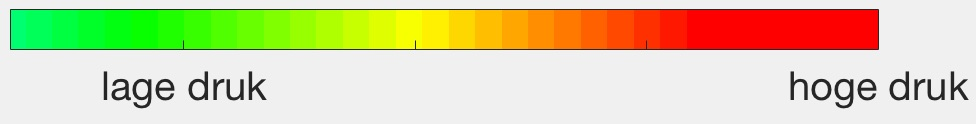
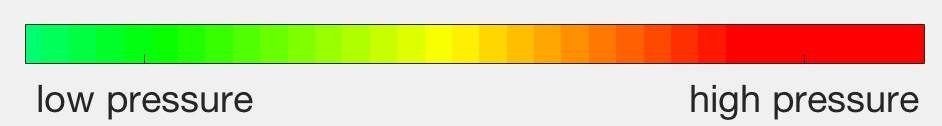
Verandering colorbar

diff --git a/Druksensor/druksensor21_11.m b/Druksensor/druksensor21_11.m
@@ -1,7 +1,8 @@
 gui = appdruksensor;
 
-%% beeld het percentage af op de gauge
-% gui.StepsLabel.Value = 700;        % totaal aantal gezette stappen, via callback
+% beeld het percentage af op de gauge
+%gui.StepsEditField.Value = 7000;        % totaal aantal gezette stappen, via callback
+%gui.StepsLabel.Value = 700;        % totaal aantal gezette stappen, via callback
 % gui.DailygoalEditField.Value = 10000;    % waarde die zelf ingevuld kan worden
 % percentage = (gui.StepsEditField.Value/gui.DailygoalEditField.Value)*100;
 % gui.Gauge.ScaleColorLimits = [0 percentage];
@@ -38,6 +39,8 @@ gui.Lamprf.Color = [rfrf gfrf bfrf];
 imshow('voet.jpg','Parent',gui.UIAxes)
 
 imshow('colorbar.jpg', 'Parent', gui.UIAxes2)
+
+
 
 
 
